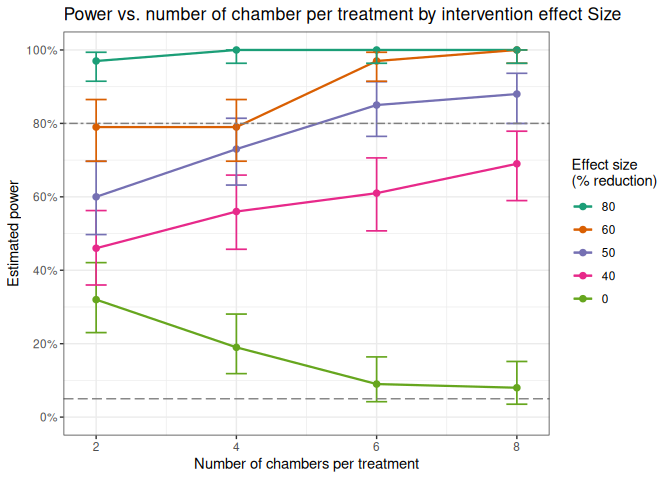
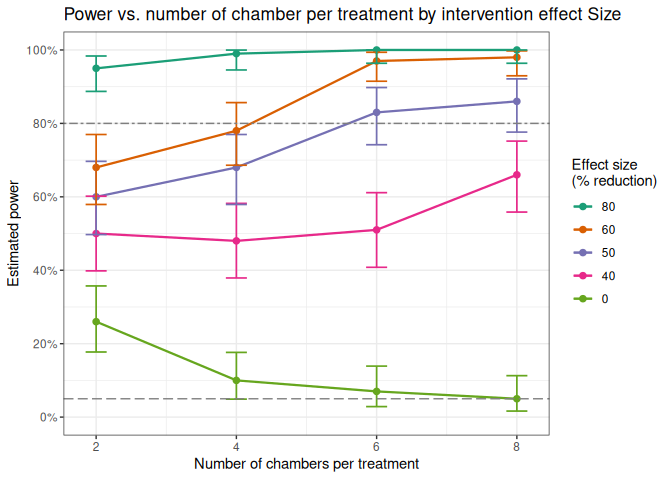
Auto-render README.Rmd

diff --git a/README.md b/README.md
@@ -133,14 +133,14 @@ chamber/replicate.
     sim.mosquitoes <- sim.mosquitoes[, c(-4,-5,-6)]
     sim.mosquitoes
     #>   replicates intvn chamber mosquito.count.fixed mosquito.count.random
-    #> 1          1     0     0-1                   69                    68
-    #> 2          2     0     0-2                   59                    67
-    #> 3          3     0     0-3                   48                    50
-    #> 4          4     0     0-4                   47                    59
-    #> 5          1     1     1-1                   11                    19
-    #> 6          2     1     1-2                    8                    27
-    #> 7          3     1     1-3                    6                     8
-    #> 8          4     1     1-4                   12                    16
+    #> 1          1     0     0-1                   47                    69
+    #> 2          2     0     0-2                   57                    76
+    #> 3          3     0     0-3                   43                    39
+    #> 4          4     0     0-4                   50                    55
+    #> 5          1     1     1-1                   16                     5
+    #> 6          2     1     1-2                   12                    13
+    #> 7          3     1     1-3                    8                    14
+    #> 8          4     1     1-4                   17                     2
 
 1.  Plot the simulated mosquitoes. This function plots a box plot with
     an option to jitter points if jitter=TURE and without jittering if
@@ -182,7 +182,7 @@ chamber/replicate.
     #output the p-values
     pvalue
     #>       pvalue 
-    #> 3.029157e-07
+    #> 0.0001484157
 
 V. Since power cannot be estimated from a single simulation, there is a
 need to simulate multiple data sets and estimate power. Now you can
@@ -253,7 +253,7 @@ only TRUE or FALSE as explained in (ii) above.
     #print the power results for each number of chambers per treatment
     round(power.df,2)
     #>   n.ch.per.trt power ci.lower ci.upper
-    #> 1            2  0.96     0.90     0.99
+    #> 1            2  0.97     0.91     0.99
     #> 2            4  0.99     0.95     1.00
     #> 3            6  1.00     0.96     1.00
     #> 4            8  1.00     0.96     1.00
@@ -341,24 +341,24 @@ only TRUE or FALSE as explained in (ii) above.
     # print power estimates
     results
     #>    n.ch.per.trt intvn.effect power   ci.lower  ci.upper
-    #> 1             2          0.0  0.32 0.23021992 0.4207669
-    #> 2             4          0.0  0.19 0.11844320 0.2806980
-    #> 3             6          0.0  0.09 0.04198360 0.1639823
-    #> 4             8          0.0  0.08 0.03517156 0.1515576
-    #> 5             2          0.4  0.46 0.35984335 0.5625884
-    #> 6             4          0.4  0.56 0.45718750 0.6591640
-    #> 7             6          0.4  0.61 0.50731448 0.7059896
-    #> 8             8          0.4  0.69 0.58968545 0.7787112
+    #> 1             2          0.0  0.26 0.17739444 0.3573121
+    #> 2             4          0.0  0.10 0.04900469 0.1762226
+    #> 3             6          0.0  0.07 0.02860529 0.1389197
+    #> 4             8          0.0  0.05 0.01643188 0.1128349
+    #> 5             2          0.4  0.50 0.39832113 0.6016789
+    #> 6             4          0.4  0.48 0.37900548 0.5822102
+    #> 7             6          0.4  0.51 0.40803633 0.6113558
+    #> 8             8          0.4  0.66 0.55846673 0.7517765
     #> 9             2          0.5  0.60 0.49720915 0.6967052
-    #> 10            4          0.5  0.73 0.63198373 0.8139336
-    #> 11            6          0.5  0.85 0.76469250 0.9135456
-    #> 12            8          0.5  0.88 0.79976432 0.9364311
-    #> 13            2          0.6  0.79 0.69708462 0.8650563
-    #> 14            4          0.6  0.79 0.69708462 0.8650563
+    #> 10            4          0.5  0.68 0.57923314 0.7697801
+    #> 11            6          0.5  0.83 0.74182459 0.8977351
+    #> 12            8          0.5  0.86 0.77627202 0.9212946
+    #> 13            2          0.6  0.68 0.57923314 0.7697801
+    #> 14            4          0.6  0.78 0.68608035 0.8566964
     #> 15            6          0.6  0.97 0.91482395 0.9937700
-    #> 16            8          0.6  1.00 0.96378331 1.0000000
-    #> 17            2          0.8  0.97 0.91482395 0.9937700
-    #> 18            4          0.8  1.00 0.96378331 1.0000000
+    #> 16            8          0.6  0.98 0.92961607 0.9975687
+    #> 17            2          0.8  0.95 0.88716509 0.9835681
+    #> 18            4          0.8  0.99 0.94554061 0.9997469
     #> 19            6          0.8  1.00 0.96378331 1.0000000
     #> 20            8          0.8  1.00 0.96378331 1.0000000
 
